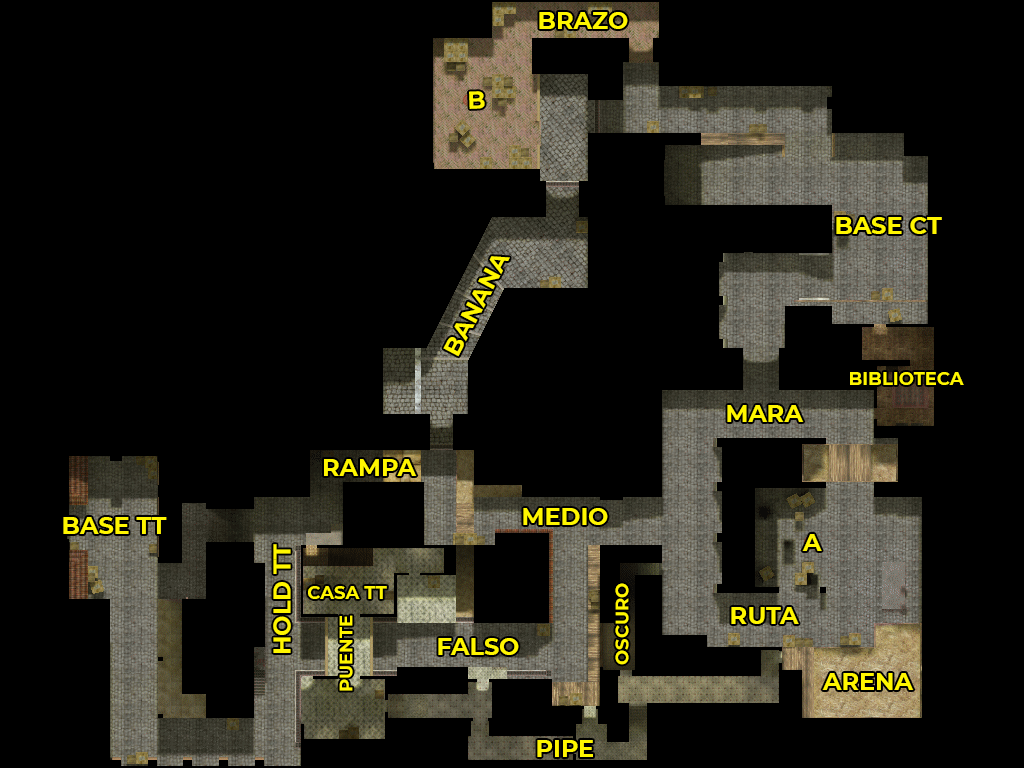
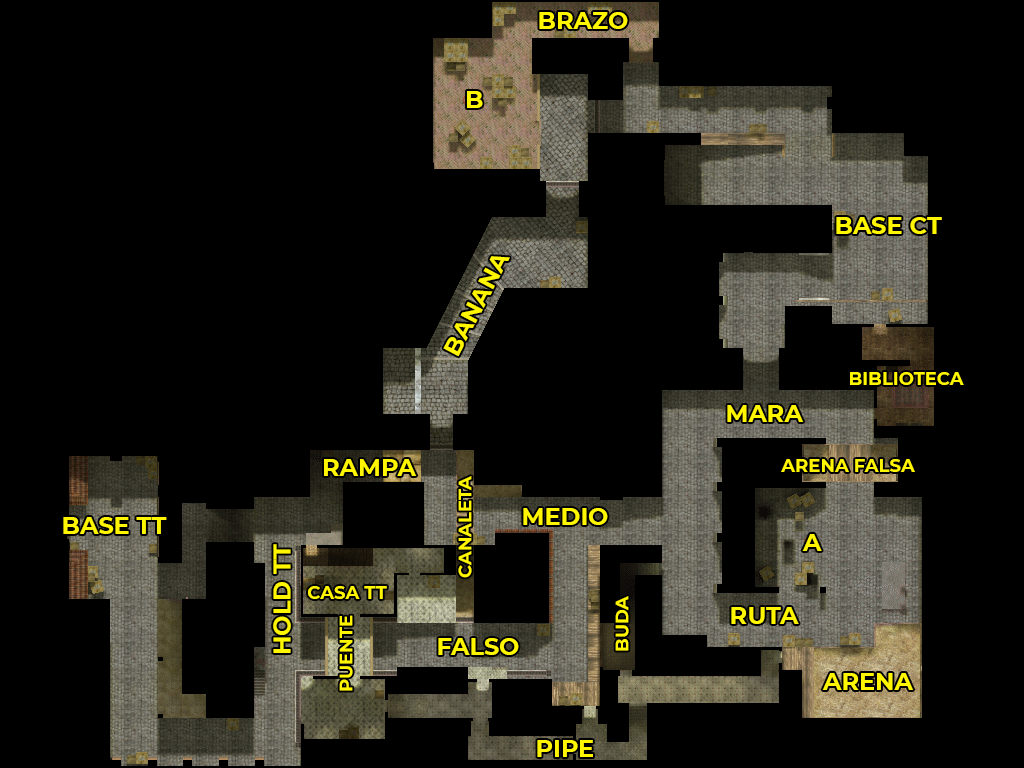
added dust_2

diff --git a/de_dust2.html b/de_dust2.html
@@ -1,0 +1,62 @@
+<html lang="es">
+
+<head>
+    <meta charset="utf-8">
+    <meta name="viewport" content="width=device-width, initial-scale=1, shrink-to-fit=no">
+    <meta http-equiv="X-UA-Compatible" content="ie=edge">
+    <link rel="stylesheet" href="styles/style.css">
+    <link rel="stylesheet" href="https://stackpath.bootstrapcdn.com/bootstrap/4.4.1/css/bootstrap.min.css"
+        integrity="sha384-Vkoo8x4CGsO3+Hhxv8T/Q5PaXtkKtu6ug5TOeNV6gBiFeWPGFN9MuhOf23Q9Ifjh" crossorigin="anonymous">
+    <script src="js/interactive.js"></script>
+    <title>Callouts de_dust_2</title>
+</head>
+
+<body>
+    <div class="parent">
+        <img id="map" src="img/de_dust2/de_dust2.png" usemap="#image-map-de_dust2">
+        <img id="detail" src="img/transparente.png">
+    </div>
+    <map name="image-map-de_dust2">
+        <area target="" alt="rampa.png" title="img/de_dust2/rampa.png" href="" coords="169,48,283,82" shape="rect"
+            onmouseover="change(this.title)" onmouseout="baseImg()">
+        <area target="" alt="largo.png" title="img/de_dust2/largo.png" href="" coords="397,52,501,82" shape="rect"
+            onmouseover="change(this.title)" onmouseout="baseImg()">
+        <area target="" alt="fosa.png" title="img/de_dust2/fosa.png" href="" coords="610,52,688,83" shape="rect"
+            onmouseover="change(this.title)" onmouseout="baseImg()">
+        <area target="" alt="a.png" title="img/de_dust2/a.png" href="" coords="246,103,283,138" shape="rect"
+            onmouseover="change(this.title)" onmouseout="baseImg()">
+        <area target="" alt="base_ct.png" title="img/de_dust2/base_ct.png" href="" coords="288,155,324,275" shape="rect"
+            onmouseover="change(this.title)" onmouseout="baseImg()">
+        <area target="" alt="corto.png" title="img/de_dust2/corto.png" href="" coords="339,253,436,286" shape="rect"
+            onmouseover="change(this.title)" onmouseout="baseImg()">
+        <area target="" alt="hold_largo.png" title="img/de_dust2/hold_largo.png" href="" coords="677,214,782,274"
+            shape="rect" onmouseover="change(this.title)" onmouseout="baseImg()">
+        <area target="" alt="verde.png" title="img/de_dust2/verde.png" href="" coords="229,451,333,496" shape="rect"
+            onmouseover="change(this.title)" onmouseout="baseImg()">
+        <area target="" alt="ma.png" title="img/de_dust2/ma.png" href="" coords="481,360,564,390" shape="rect"
+            onmouseover="change(this.title)" onmouseout="baseImg()">
+        <area target="" alt="medio.png" title="img/de_dust2/medio.png" href="" coords="464,399,585,429" shape="rect"
+            onmouseover="change(this.title)" onmouseout="baseImg()">
+        <area target="" alt="caracol.png" title="img/de_dust2/caracol.png" href="" coords="432,437,468,575" shape="rect"
+            onmouseover="change(this.title)" onmouseout="baseImg()">
+        <area target="" alt="base_tt.png" title="img/de_dust2/base_tt.png" href="" coords="850,435,892,562" shape="rect"
+            onmouseover="change(this.title)" onmouseout="baseImg()">
+        <area target="" alt="b.png" title="img/de_dust2/b.png" href="" coords="198,622,241,661" shape="rect"
+            onmouseover="change(this.title)" onmouseout="baseImg()">
+        <area target="" alt="oscuro.png" title="img/de_dust2/oscuro.png" href="" coords="428,641,549,673" shape="rect"
+            onmouseover="change(this.title)" onmouseout="baseImg()">
+        <area target="" alt="hold_b.png" title="img/de_dust2/hold_b.png" href="" coords="612,640,728,678" shape="0"
+            onmouseover="change(this.title)" onmouseout="baseImg()">
+    </map>
+    <script src="https://code.jquery.com/jquery-3.4.1.slim.min.js"
+        integrity="sha384-J6qa4849blE2+poT4WnyKhv5vZF5SrPo0iEjwBvKU7imGFAV0wwj1yYfoRSJoZ+n"
+        crossorigin="anonymous"></script>
+    <script src="https://cdn.jsdelivr.net/npm/popper.js@1.16.0/dist/umd/popper.min.js"
+        integrity="sha384-Q6E9RHvbIyZFJoft+2mJbHaEWldlvI9IOYy5n3zV9zzTtmI3UksdQRVvoxMfooAo"
+        crossorigin="anonymous"></script>
+    <script src="https://stackpath.bootstrapcdn.com/bootstrap/4.4.1/js/bootstrap.min.js"
+        integrity="sha384-wfSDF2E50Y2D1uUdj0O3uMBJnjuUD4Ih7YwaYd1iqfktj0Uod8GCExl3Og8ifwB6"
+        crossorigin="anonymous"></script>
+</body>
+
+</html>

diff --git a/de_inferno.html b/de_inferno.html
@@ -8,19 +8,13 @@
     <link rel="stylesheet" href="https://stackpath.bootstrapcdn.com/bootstrap/4.4.1/css/bootstrap.min.css"
         integrity="sha384-Vkoo8x4CGsO3+Hhxv8T/Q5PaXtkKtu6ug5TOeNV6gBiFeWPGFN9MuhOf23Q9Ifjh" crossorigin="anonymous">
     <script src="js/interactive.js"></script>
-    <title>CS Callouts</title>
+    <title>Callouts de_inferno</title>
 </head>
 
 <body>
     <div class="parent">
-        <div class="col-lg-2">
-            <button type="button" class="btn btn-primary" onclick="setMap('de_inferno')">de_inferno</button>
-            <button type="button" class="btn btn-primary" onclick="setMap('de_dust2')">de_dust2</button>
-        </div>
-        <div class="col-lg-2">
-            <img id="map" src="img/base_map.png" usemap="">
-            <img id="detail" src="img/transparente.png" alt="" />
-        </div>
+        <img id="map" src="img/de_inferno/de_inferno.png" usemap="#image-map-de_inferno">
+        <img id="detail" src="img/transparente.png" alt="" />
     </div>
     <map name="image-map-de_inferno">
         <area target="" alt="base_tt.png" title="img/de_inferno/base_tt.png" href="" coords="57,504,167,539"
@@ -34,8 +28,6 @@
         <area target="" alt="falso.png" title="img/de_inferno/falso.png" href="" coords="429,624,526,664" shape="rect"
             onmouseover="change(this.title)" onmouseout="baseImg()">
         <area target="" alt="pipe.png" title="img/de_inferno/pipe.png" href="" coords="518,730,608,762" shape="rect"
-            onmouseover="change(this.title)" onmouseout="baseImg()">
-        <area target="" alt="oscuro.png" title="img/de_inferno/oscuro.png" href="" coords="607,577,639,670" shape="rect"
             onmouseover="change(this.title)" onmouseout="baseImg()">
         <area target="" alt="ruta.png" title="img/de_inferno/ruta.png" href="" coords="722,594,808,631" shape="rect"
             onmouseover="change(this.title)" onmouseout="baseImg()">
@@ -60,6 +52,9 @@
             shape="rect" onmouseover="change(this.title)" onmouseout="baseImg()">
         <area target="" alt="mara.png" title="img/de_inferno/mara.png" href="" coords="706,389,816,435" shape="rect"
             onmouseover="change(this.title)" onmouseout="baseImg()">
+        <area target="" alt="buda.png" title="img/de_inferno/buda.png" href="" coords="598,590,640,659" shape="rect" onmouseover="change(this.title)" onmouseout="baseImg()">>
+        <area target="" alt="canaleta.png" title="img/de_inferno/canaleta.png" href="" coords="451,461,476,594" shape="rect" onmouseover="change(this.title)" onmouseout="baseImg()">>
+        <area target="" alt="arena_falsa.png" title="img/de_inferno/arena_falsa.png" href="" coords="776,450,923,478" shape="rect" onmouseover="change(this.title)" onmouseout="baseImg()">>
     </map>
     <script src="https://code.jquery.com/jquery-3.4.1.slim.min.js"
         integrity="sha384-J6qa4849blE2+poT4WnyKhv5vZF5SrPo0iEjwBvKU7imGFAV0wwj1yYfoRSJoZ+n"

diff --git a/js/interactive.js b/js/interactive.js
@@ -1,16 +1,16 @@
 function change(obj) {
     detail = document.querySelector("#detail");
+    detail.style.visibility = "visible";
     detail.src = obj;
 }
 
 function baseImg() {
     detail = document.querySelector("#detail");
-    detail.src = "img/base_detail.png";
+    detail.src = "img/transparente.png";
+    detail.style.visibility = "hidden";
 }
 
 function setMap(mapName) {
-    detail = document.querySelector("#detail");
-    detail.style.visibility = "visible";
     map = document.querySelector("#map");
     map.src = "img/" + mapName + "/" + mapName + ".png";
     map.setAttribute('usemap', "#image-map-"+mapName);

diff --git a/styles/style.css b/styles/style.css
@@ -1,4 +1,4 @@
-.parent {
+#parent {
     position: relative;
     top: 0;
     left: 0;
@@ -9,8 +9,18 @@
     left: 0;
 }
 #detail {
-    width: 20em;
+    width: 30em;
     position: absolute;
     top: 0;
-    left: 0;
+    right: 0;
+    float: right;
+}
+.de_dust2 {
+    text-align: right
+}
+body {
+    min-height: 100vh;
+}
+.flex-fill {
+    flex: 1 1 auto;
 }
